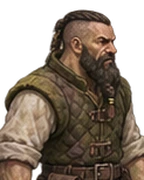
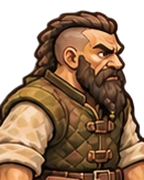
Match new villagers to the illustrated village art

diff --git a/public/assets/README.md b/public/assets/README.md
@@ -98,9 +98,9 @@ Les six méduses ont des phases et des cadences décalées. La baleine relit des
 
 ## Deux silhouettes d’habitants — 20 novembre 2026
 
-Les planches `resident-saffron.webp` et `resident-moss.webp` contiennent chacune 96 cellules transparentes de 160 × 160 px, réparties en huit colonnes et douze lignes. Les portraits `resident-saffron-portrait.webp` et `resident-moss-portrait.webp` reprennent les visages des poses debout.
+Les planches `resident-saffron.webp` et `resident-moss.webp` contiennent chacune 96 cellules transparentes de 192 × 192 px, réparties en huit colonnes et douze lignes. Les portraits `resident-saffron-portrait.webp` et `resident-moss-portrait.webp` reprennent les visages des poses debout.
 
-Les illustrations ont été créées avec l’outil intégré ImageGen. Les poses debout servent de référence pour tous les gestes de chaque silhouette. Les poses faméliques gardent la coiffure, les vêtements et les accessoires, avec un visage creusé, des membres plus fins et des vêtements relâchés. Les poses sont calées à la même hauteur au sol pour limiter les sauts entre les images.
+Les illustrations ont été créées avec l’outil intégré ImageGen. La reprise graphique utilise les villageois de `residents-variants.png` comme référence pour le contour brun, les ombres en aplats et les accents ocre. Les poses debout servent de référence pour tous les gestes de chaque silhouette. Les poses faméliques gardent la coiffure, les vêtements et les accessoires, avec un visage creusé, des membres plus fins et des vêtements relâchés. Les poses sont calées à la même hauteur au sol pour limiter les sauts entre les images.
 
 | Cellules à partir de zéro | Poses |
 | --- | --- |
